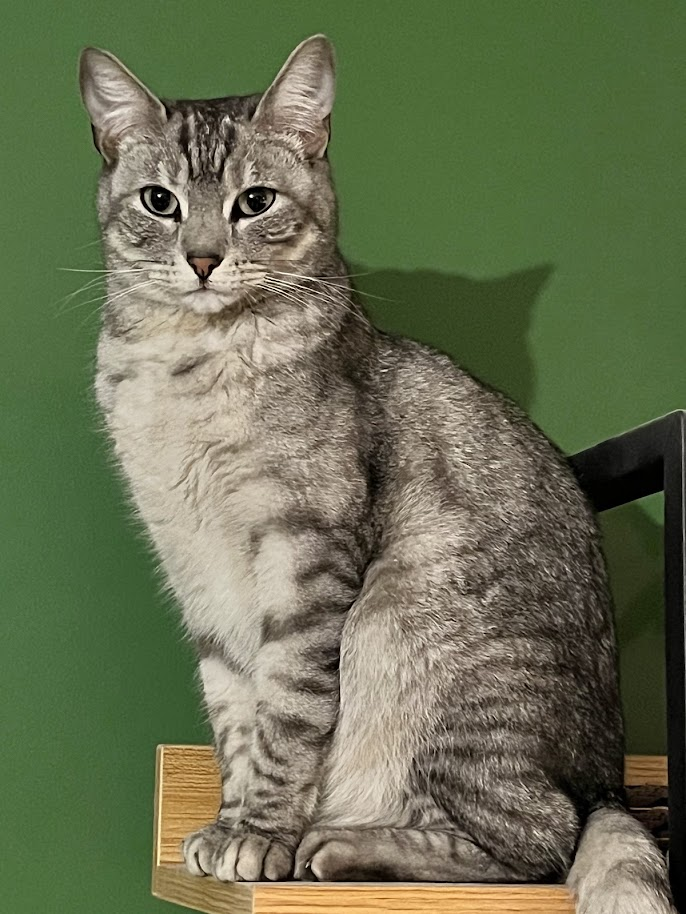
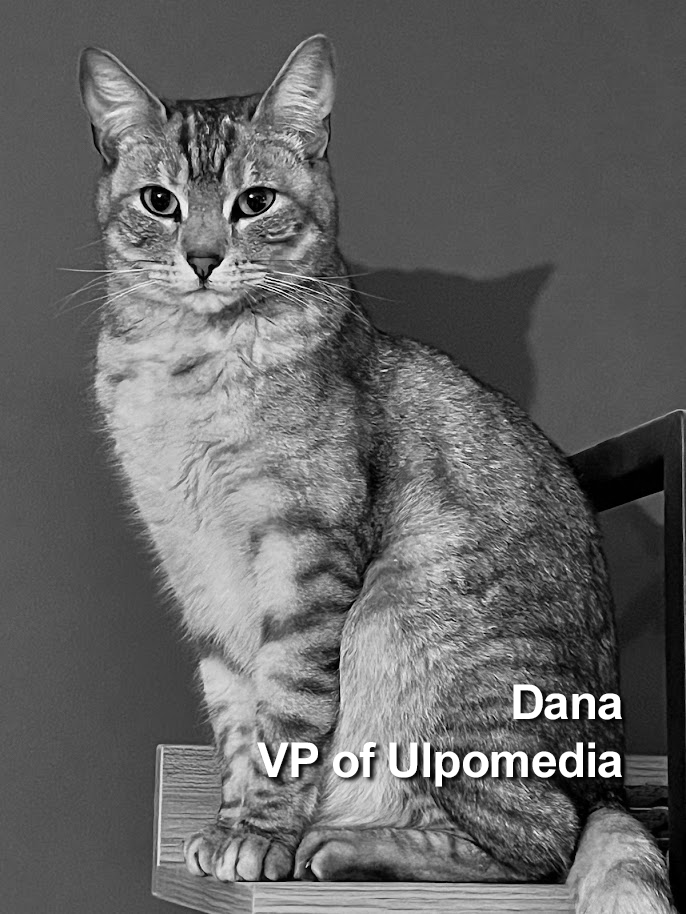
Update about modal UI, assets, and responsive styles
Add about-us assets (close-btn.png, text-bg.png) and update photo. Update README asset listing. Move the about-modal close control in index.html to a dedicated button element and simplify footer text (trim long copyright lines). Revise styles/core.css: add --backdrop var, use it for modal backdrop, restyle close button to use the new image, adjust sizes, z-index, overflow behavior, and responsive font-size clamps. Add responsive tweaks for .game layout and reduce footer logo size.

diff --git a/index.html b/index.html
@@ -18,9 +18,13 @@
 
     <div class="about-modal" id="about-modal" aria-hidden="true">
         <div class="about-modal-backdrop" data-modal-close></div>
+        <button
+                class="about-modal-close"
+                aria-label="Cerrar"
+                data-modal-close>
+        </button>
         <div class="about-modal-content">
             <div class="about-modal-inner">
-                <button class="about-modal-close" src="assets/about-us/close-btn.png" aria-label="Cerrar" data-modal-close>&times;</button>
                 <div class="about-modal-text">
                     <p class="about-modal-copy active" data-lang="es">Somos una empresa localizada en Chile que apunta al desarrollo de experiencias interactivas enfocadas en tres principios: accesibilidad, estética y rentabilidad. Tenemos más de 8 años de experiencia trabajando diferentes modelos de negocios adaptados para las necesidades de nuestros clientes, tanto internos como externos.<br><br>Le brindamos la misma energía y experiencia tanto a nuestras propias IPs como a nuestros proyectos externos.</p>
                     <p class="about-modal-copy" data-lang="en">We are a company based in Chile dedicated to developing interactive experiences centered on three principles: accessibility, aesthetics, and profitability. We have over 8 years of experience working with different business models tailored to the needs of our clients, both internal and external.<br><br>We bring the same energy and expertise to both our own IPs and our external projects.</p>
@@ -149,17 +153,11 @@
                     <img src="assets/footer/logo-footer.gif" alt="UlpoMedia" class="footer-logo">
                     
                     <div class="footer-text-container">
-                        <p class="footer-text active" data-lang="es">©Ulpo Media SPA 2015 - 2026 • contacto@ulpomedia.com • +56 9 9678 2821
-                            Todo el contenido presentado en el sitio web es propiedad intelectual de ©Ulpo Media SPA. Derechos Reservados
-                        </p>
+                        <p class="footer-text active" data-lang="es">©Ulpo Media SPA 2015 - 2026 • contacto@ulpomedia.com • +56 9 9678 2821</p>
     
-                        <p class="footer-text" data-lang="en">©Ulpo Media SPA 2015 - 2026 • contacto@ulpomedia.com • +56 9 9678 2821
-                            All content displayed on this website is owned by ©Ulpo Media SPA. All Rights Reserved.
-                        </p>
+                        <p class="footer-text" data-lang="en">©Ulpo Media SPA 2015 - 2026 • contacto@ulpomedia.com • +56 9 9678 2821</p>
     
-                        <p class="footer-text" data-lang="ja">©Ulpo Media SPA 2015 - 2026 • contacto@ulpomedia.com • +56 9 9678 2821
-                            当ウェブサイトに掲載されているすべてのコンテンツは、©Ulpo Media SPAの知的財産です。無断転載を禁じます。
-                        </p>
+                        <p class="footer-text" data-lang="ja">©Ulpo Media SPA 2015 - 2026 • contacto@ulpomedia.com • +56 9 9678 2821</p>
                     </div>
                 </footer>
                 

diff --git a/styles/core.css b/styles/core.css
@@ -4,6 +4,7 @@
     --bg-afternoon: #FEAE34;
     --bg-night: #262B44;
     --bio-text: #1F1A14;
+    --backdrop: rgb(31 26 20 / 0.8);
     --footer-text: #FFFFFF;
     --footer-bg: #F77622;
 }
@@ -343,7 +344,7 @@ img {
 .about-modal-backdrop {
     position: absolute;
     inset: 0;
-    background: var(--bio-text);
+    background: var(--backdrop);
     align-content: center;
     justify-content: center;
 }
@@ -356,24 +357,25 @@ img {
     max-height: 85vh;
     padding: 2rem;
     box-sizing: border-box;
-    overflow-y: auto;
+    overflow-y: hidden;
     overflow-x: hidden;
 }
 
-.about-modal-close {
+.about-modal-close{
     position: absolute;
-    top: -0.5rem;
-    right: -0.5rem;
-    width: 40px;
-    height: 40px;
+
+    top: 1rem;
+    right: 1rem;
+
+    width: 64px;
+    height: 64px;
+    
+    aspect-ratio: 1/1;
+
+    background: url("../assets/about-us/close-btn.png") center/contain no-repeat;
     border: none;
-    background: #1a1a2e;
-    color: #fff;
-    font-family: 'Press Start 2P', monospace;
-    font-size: 16px;
-    line-height: 1;
     cursor: pointer;
-    z-index: 2;
+    z-index: 10;
 }
 
 .about-modal-inner {
@@ -414,8 +416,8 @@ img {
 .about-modal-copy {
     display: none;
     font-family: 'VT323', 'DotGothic16', monospace;
-    font-size: clamp(18px, 4.5cqw, 32px);
-    line-height: 1.3;
+    font-size: clamp(20px, 1.2vw + 0.5rem, 30px);
+    line-height: 1.25;
     letter-spacing: 0.5px;
     color: var(--bio-text);
     text-align: justify;
@@ -627,7 +629,8 @@ body.modal-open {
     white-space: pre-line;
     
     font-family: 'Arial', monospace;
-    font-size: clamp(10px, 5cqw, 28px);
+
+    font-size: clamp(5px, 1.2vw + 0.5rem, 20px);
     line-height: 1.3;
     letter-spacing: 0.5px;
     color: var(--footer-text);
@@ -849,10 +852,11 @@ body.time-night .game {
     .about-modal-content {
         padding: 1rem;
         max-height: 90vh;
+        overflow-y: auto;
     }
 
     .about-modal-close {
-        right: 1rem;
+        max-width: 50px;
     }
 
     .about-modal-inner {
@@ -867,9 +871,27 @@ body.time-night .game {
         margin: 0 auto;
     }
     
+    .about-modal-text {
+        overflow-y: hidden;
+    }
+    
     /* GAME */
+    
+    .game {
+        min-height:auto;
+        padding:2rem 0 0;
+    }
+
+    .game-content{
+        padding: 1rem 0 0;
+    }
+
+    .game-frame{
+        width: 95%;
+    }
 
     .game-cartridge{
+        top: 25%;
         width: 40%;
         min-width: unset;
         max-width: unset;
@@ -881,6 +903,10 @@ body.time-night .game {
     }
 
     .footer-logo {
-        width: 200px;
+        width: 170px;
+    }
+
+    .footer-text{
+        font-size: clamp(8px, 2.2vw, 12px);
     }
 }

diff --git a/README.md b/README.md
@@ -1,6 +1,10 @@
 ```
 ulpo-web/
 ├── assets/
+│   ├── about-us/
+│   │   ├── close-btn.png
+│   │   ├── photo.png
+│   │   └── text-bg.png
 │   ├── footer/
 │   │   └── logo-footer.gif
 │   ├── game/
@@ -116,8 +120,6 @@ ulpo-web/
 ├── js/
 │   └── main.js
 ├── styles/
-│   ├── about-us.css
 │   └── core.css
-├── about-us.html
 └── index.html
 ```
